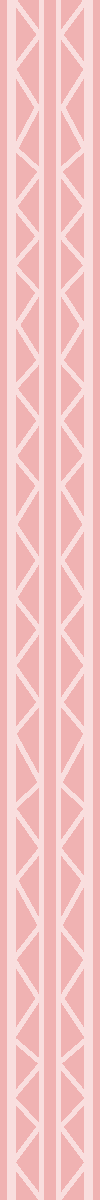
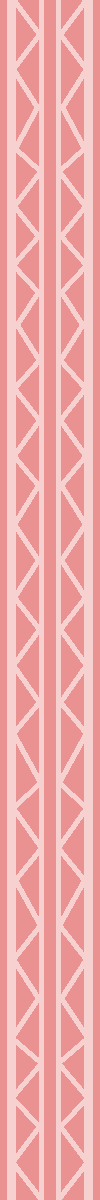
a

diff --git a/SourceCode/enemy.cpp b/SourceCode/enemy.cpp
@@ -54,6 +54,7 @@ void enemy_init()
 
     for (int i = 0; i < ENEMY_MAX; i++)
     {
+        enemy[i].attack = false;
         bool can_spawn = false;
         enemy[i].speed.x = ENEMY_SPEED;
         enemy[i].speed.y = ENEMY_SPEED;

diff --git a/SourceCode/attack_line.cpp b/SourceCode/attack_line.cpp
@@ -7,6 +7,7 @@ Sprite* spr_attack_line;
 Sprite* spr_strong_attack_line;
 attack_line_data attack_line[ENEMY_MAX];
 attack_line_data strong_attack_line;
+
 void attack_line_init()
 {
 	for(int i = 0 ; i < ENEMY_MAX ; i++ )

diff --git a/SourceCode/stgae2.cpp b/SourceCode/stgae2.cpp
@@ -10,6 +10,10 @@
 
 void stage2_init()
 {
+	for (int i = 0; i < ENEMY_MAX; i++)
+	{
+		enemy[i].attack = false;
+	}
 	attack_line_init();
 	player_init();
 	camera_init();
